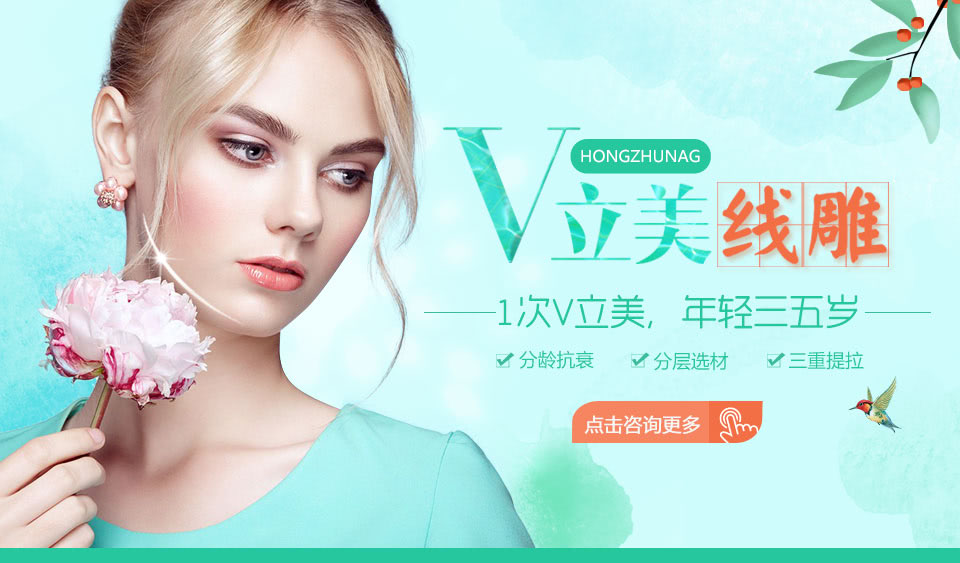
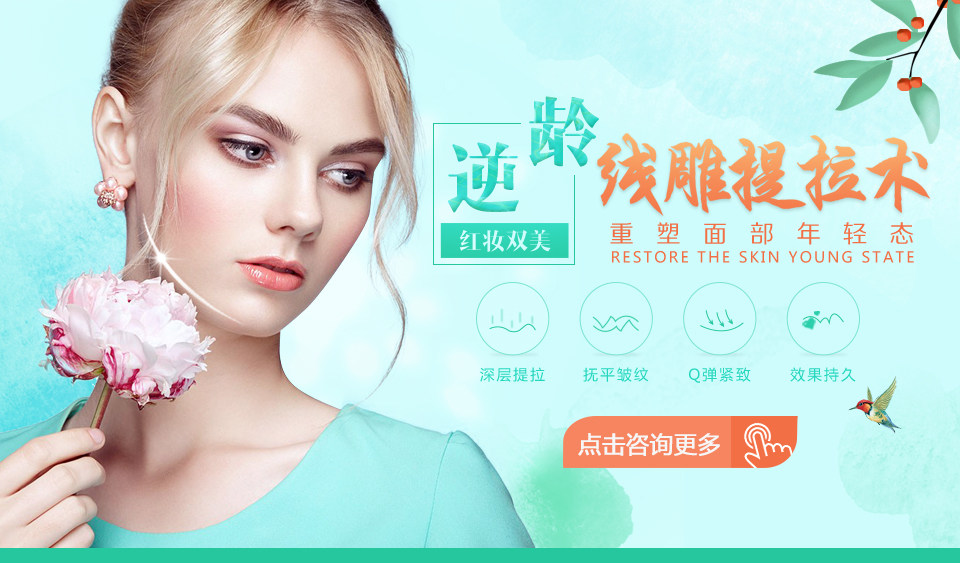
v立美线雕banner更换
v立美线雕

Changed region(s): [[0.4375, 0.151, 0.9688, 0.4831], [0.5, 0.5133, 0.9062, 0.8455], [0.9062, 0.7247, 0.9375, 0.7549]]

diff --git a/static.hzshuangmei.com/css/m/vlmxd/theme_sj.css b/static.hzshuangmei.com/css/m/vlmxd/theme_sj.css
@@ -105,7 +105,7 @@ ul {
 
     padding-bottom: 59%;
 
-    background: url(https://img.hzshuangmei.com/m/vlmxd/banner.jpg) top center no-repeat;
+    background: url(https://img.hzshuangmei.com/m/vlmxd/banner.jpg？v=0.1) top center no-repeat;
     -webkit-background-size: 100% 100%;
             background-size: 100%;
 }.banner .g-doc {
